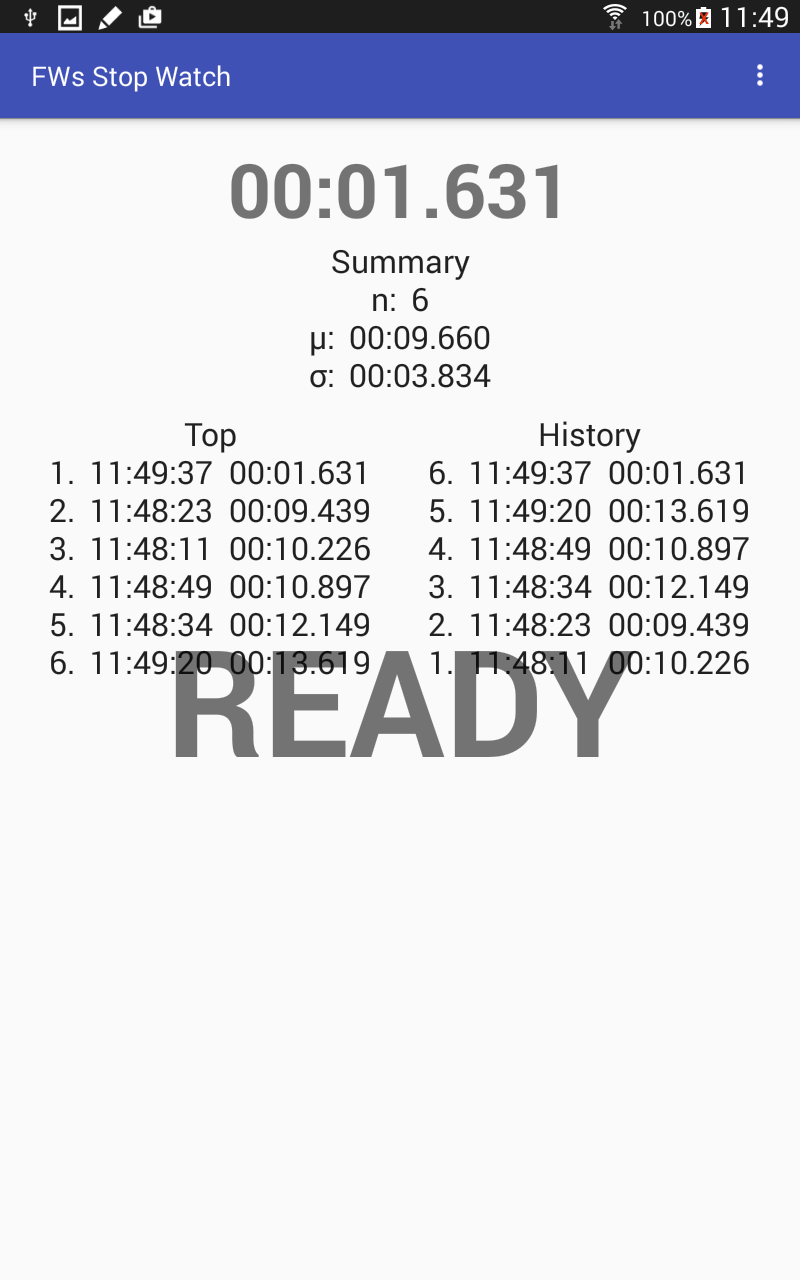
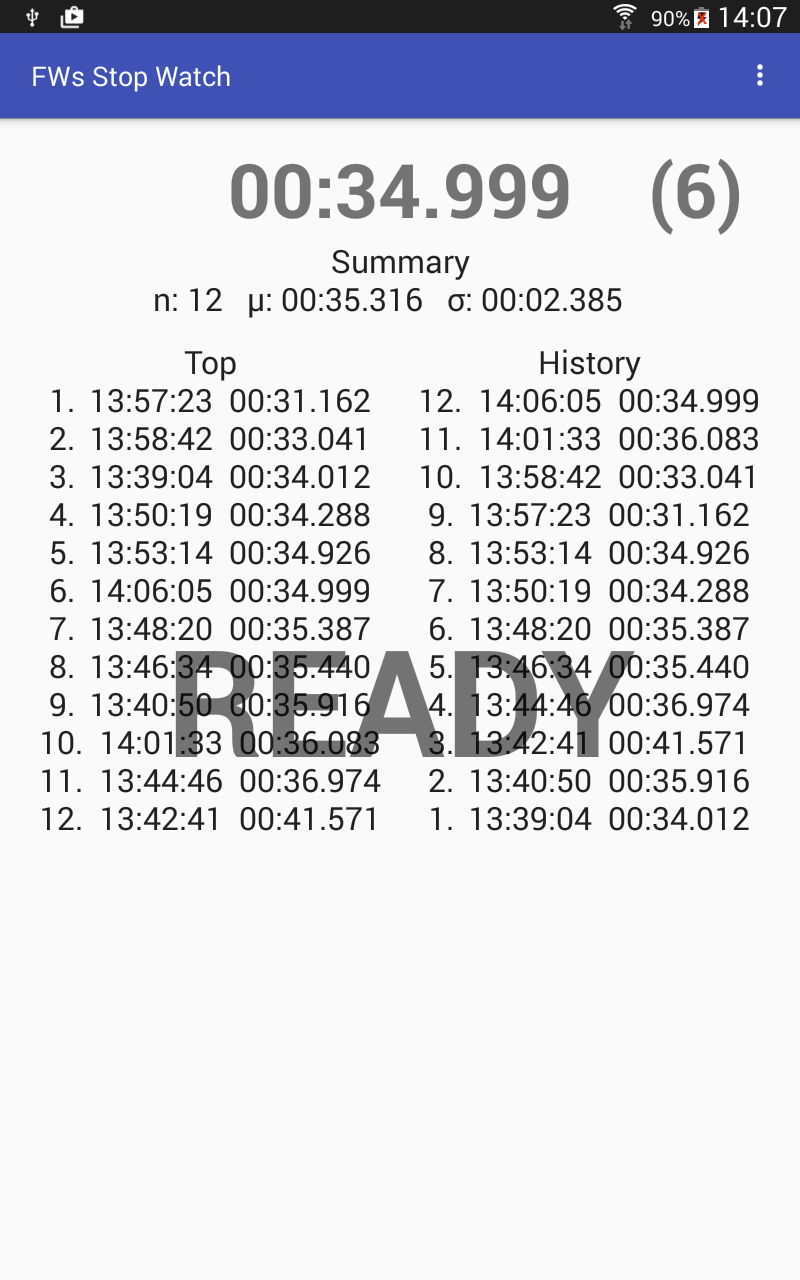
added rank to mainText

diff --git a/app/src/main/kotlin/com/fw/android/stw/service/STWService.kt b/app/src/main/kotlin/com/fw/android/stw/service/STWService.kt
@@ -54,6 +54,20 @@ object STWService {
         return ""
     }
 
+    fun rank(): String {
+        val sb = StringBuilder()
+        if(stws.isNotEmpty()) {
+            measureTimeMillis {
+                val rank = 1+TreeSet(stws).headSet(stws.first).size
+                sb.append("         ").append(formatTime(stws.first.time)).append("    (").append(rank).append(")")
+            }.log("rank.time")
+        }
+        else {
+            sb.append("00:00.000")
+        }
+        return sb.toString();
+    }
+
     fun top(): String {
         val sb = StringBuilder()
         sb.append("Top\n")
@@ -75,13 +89,13 @@ object STWService {
     fun summary(): String {
         val sb = StringBuilder()
         sb.append("Summary\n")
-        if (stws.size > 0) {
+        if (stws.isNotEmpty()) {
             measureTimeMillis {
                 val mean = stws.fold(0.0, { t: Double, stw: STW -> t + stw.time }) / stws.size
                 val sigma = Math.sqrt(stws.fold(0.0, { t: Double, stw: STW -> t + (stw.time - mean) * (stw.time - mean) }) / stws.size)
-                sb.append("n:\t").append(stws.size).append("\n")
-                sb.append("µ:\t").append(formatTime(mean.toLong())).append("\n")
-                sb.append("\u03C3:\t").append(formatTime(sigma.toLong())).append("\n")
+                sb.append("n: ").append(stws.size).append("   ")
+                sb.append("µ: ").append(formatTime(mean.toLong())).append("   ")
+                sb.append("\u03C3: ").append(formatTime(sigma.toLong())).append("   ")
             }.log("summary.time")
         }
         return sb.toString()

diff --git a/app/src/main/java/com/fw/android/stw/activity/MainActivity.java b/app/src/main/java/com/fw/android/stw/activity/MainActivity.java
@@ -31,13 +31,13 @@ public class MainActivity extends AppCompatActivity {
     private TextView topView;
     private TextView historyView;
 
-    private STWService stwManager;
+    private STWService stwService;
     private Timer timer;
 
     private Handler mainTextViewUpdater = new Handler() {
         public void handleMessage(Message msg) {
-            if (stwManager.isRunning()) {
-                String runtime = stwManager.formatRuntime();
+            if (stwService.isRunning()) {
+                String runtime = stwService.formatRuntime();
                 mainTextView.setText(runtime);
                 mainButton.setText(runtime);
             } else {
@@ -65,10 +65,10 @@ public class MainActivity extends AppCompatActivity {
     private View.OnTouchListener mainButtonTouchListener = new View.OnTouchListener() {
         public boolean onTouch(View v, MotionEvent event) {
             Log.i(LOGTAG, "onTouch()");
-            if (stwManager.isRunning()) {
-                stwManager.stop();
+            if (stwService.isRunning()) {
+                stwService.stop();
                 Log.i(LOGTAG, "stopped");
-                mainTextView.setText(stwManager.formatLastStopTime());
+                mainTextView.setText(stwService.formatLastStopTime());
                 mainButton.setText(R.string.stw_state_ready);
                 Log.i(LOGTAG, "updated:" + mainTextView.getText());
                 stopTimer();
@@ -87,7 +87,7 @@ public class MainActivity extends AppCompatActivity {
 
         Log.i(LOGTAG, "onCreate()");
 
-        stwManager = STWService.INSTANCE;
+        stwService = STWService.INSTANCE;
         mainButton = (Button) findViewById(R.id.button);
         mainButton.setOnTouchListener(mainButtonTouchListener);
         mainLayout = (LinearLayout) findViewById(R.id.main_layout);
@@ -134,7 +134,7 @@ public class MainActivity extends AppCompatActivity {
     protected void onStart() {
         super.onStart();
         Log.i(LOGTAG, "onStart()");
-        if (stwManager.isRunning()) {
+        if (stwService.isRunning()) {
             startTimer();
         }
         updateStats();
@@ -181,7 +181,7 @@ public class MainActivity extends AppCompatActivity {
 
     public void mainButtonAction(View view) {
         Log.i("button.isRunning", "false");
-        stwManager.start();
+        stwService.start();
         startTimer();
     }
 
@@ -195,14 +195,14 @@ public class MainActivity extends AppCompatActivity {
 
     private boolean dropLast() {
         Log.i(LOGTAG, "drop");
-        stwManager.removeFirst();
+        stwService.removeFirst();
         updateStats();
         return true;
     }
 
     private boolean reset() {
         Log.i(LOGTAG, "reset");
-        stwManager.reset();
+        stwService.reset();
         mainTextView.setText(R.string.stw_zero);
         updateStats();
         return true;
@@ -225,9 +225,10 @@ public class MainActivity extends AppCompatActivity {
     }
 
     private void updateStats() {
-        summaryView.setText(stwManager.summary());
-        historyView.setText(stwManager.history());
-        topView.setText(stwManager.top());
+        mainTextView.setText(stwService.rank());
+        summaryView.setText(stwService.summary());
+        historyView.setText(stwService.history());
+        topView.setText(stwService.top());
     }
 
 
